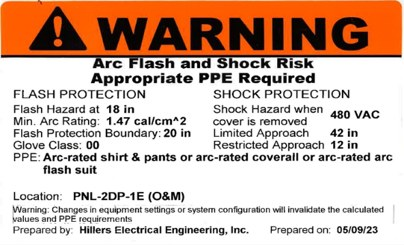
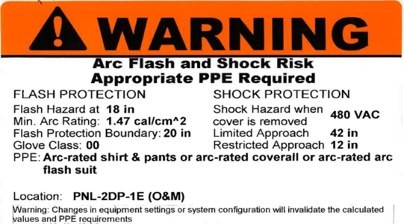
Thein's review, 2026-11-10: bigger brand, no Projects page, his photos
- Header: logo 128px with the firm name beside it at 1.45rem; 84px with
  the name on tablets, logo alone under 480px.
- Projects page removed from nav, sitemap, 404 and README; sheets now
  E-1..E-5 of 5. projects.html is a noindex stub to Home.
- His full-resolution photos replace the pixelated ones: MCC lineup on
  About, vertical pump motor on Services, CAT standby generator and lift
  station panels on Home and Market Focus. Recent Study on Home is now
  the WTP No. 2 arc flash study (September 2026) from his cover PDF.
- Arc flash label: "Prepared by" line cropped off, shown whole
  (object-fit: contain), caption no longer credits HEE.
- Contact: Paul and Thein use the unedited portraits from his guide;
  rows are Paul + Careers, Mark + Thein, Shawn + Jacki.

diff --git a/index.html b/index.html
@@ -28,7 +28,7 @@
 <a class="skip" href="#main">Skip to content</a>
 <header class="site-head band"><div class="wrap">
   <a class="brand" href="index.html"><img src="img/logo.png" alt="" width="451" height="216"><span>Hillers Electrical Engineering, Inc.</span></a>
-  <nav class="site-nav" aria-label="Main"><a class="nav-cta" href="contact.html">Contact</a><details class="menu"><summary aria-label="Menu"><span class="bars" aria-hidden="true"><i></i><i></i><i></i></span></summary></details><ul><li><a href="index.html" aria-current="page">Home</a></li><li><a href="about.html">About</a></li><li><a href="services.html">Services</a></li><li><a href="market-focus.html">Market Focus</a></li><li><a href="projects.html">Projects</a></li></ul></nav>
+  <nav class="site-nav" aria-label="Main"><a class="nav-cta" href="contact.html">Contact</a><details class="menu"><summary aria-label="Menu"><span class="bars" aria-hidden="true"><i></i><i></i><i></i></span></summary></details><ul><li><a href="index.html" aria-current="page">Home</a></li><li><a href="about.html">About</a></li><li><a href="services.html">Services</a></li><li><a href="market-focus.html">Market Focus</a></li></ul></nav>
 </div></header>
 <main id="main">
 <section class="hero band"><div class="zones" aria-hidden="true"><span>1</span><span>2</span><span>3</span><span>4</span><span>5</span><span>6</span><span>7</span><span>8</span></div><div class="wrap">
@@ -92,9 +92,9 @@
 
 <section class="band tinted"><div class="wrap">
   <div class="plates-3">
-    <a class="photo-card" href="projects.html"><div class="zoom"><img src="img/plant-aerial.jpg" alt="Aerial view of a treatment plant with clarifiers and storage tanks" width="658" height="307"></div><span>Treatment plant, aerial</span></a>
-    <a class="photo-card" href="projects.html"><div class="zoom"><img src="img/switchgear.jpg" alt="Lineup of electrical switchgear and motor control sections in an indoor electrical room" width="413" height="309"></div><span>Switchgear and motor control lineup</span></a>
-    <a class="photo-card" href="projects.html"><div class="zoom"><img src="img/generator.jpg" alt="Large diesel standby generator installed indoors" width="555" height="312"></div><span>Standby generator</span></a>
+    <figure class="plate"><div class="zoom"><img src="img/plant-aerial.jpg" alt="Aerial view of a treatment plant with clarifiers and storage tanks" width="658" height="307"></div><figcaption>Treatment plant, aerial</figcaption></figure>
+    <figure class="plate"><div class="zoom"><img src="img/lift-station.jpg" alt="Lift station control panels and conduit on a concrete pad" width="1400" height="788" loading="lazy"></div><figcaption>Lift station control panels</figcaption></figure>
+    <figure class="plate"><div class="zoom"><img src="img/generator.jpg" alt="Large diesel standby generator installed indoors" width="1400" height="788" loading="lazy"></div><figcaption>Standby generator</figcaption></figure>
   </div>
 </div></section>
 
@@ -106,7 +106,7 @@
     </div>
     <nav class="quick" aria-label="Quick links">
       <a href="services.html"><svg class="icon" viewBox="0 0 64 64" aria-hidden="true" focusable="false"><path d="M32 4v8"/><rect x="28" y="12" width="8" height="8"/><path d="M32 20v3"/><circle cx="32" cy="29" r="6"/><circle cx="32" cy="37" r="6"/><path d="M32 43v5M14 48h36M14 48v9M32 48v9M50 48v9"/></svg><span>Services</span></a>
-      <a href="projects.html"><svg class="icon" viewBox="0 0 64 64" aria-hidden="true" focusable="false"><circle cx="19" cy="19" r="13"/><circle cx="19" cy="19" r="3"/><path d="M6 19h10M22 19h10M19 6v10M19 22v10"/><circle cx="46" cy="46" r="11"/><circle cx="46" cy="46" r="3"/><rect x="40" y="8" width="18" height="22"/><path d="M40 15h18M40 22h18"/><rect x="6" y="42" width="24" height="16"/><path d="M14 42v16M22 42v16"/><path d="M32 19h8M30 50h5"/></svg><span>Projects</span></a>
+      <a href="market-focus.html"><svg class="icon" viewBox="0 0 64 64" aria-hidden="true" focusable="false"><circle cx="19" cy="19" r="13"/><circle cx="19" cy="19" r="3"/><path d="M6 19h10M22 19h10M19 6v10M19 22v10"/><circle cx="46" cy="46" r="11"/><circle cx="46" cy="46" r="3"/><rect x="40" y="8" width="18" height="22"/><path d="M40 15h18M40 22h18"/><rect x="6" y="42" width="24" height="16"/><path d="M14 42v16M22 42v16"/><path d="M32 19h8M30 50h5"/></svg><span>Market Focus</span></a>
       <a href="about.html"><svg class="icon" viewBox="0 0 64 64" aria-hidden="true" focusable="false"><circle cx="24" cy="20" r="9"/><path d="M8 54c0-11 7-18 16-18s16 7 16 18"/><circle cx="47" cy="24" r="7"/><path d="M43 37c8-1 14 6 14 17"/></svg><span>About</span></a>
       <a href="contact.html"><svg class="icon" viewBox="0 0 64 64" aria-hidden="true" focusable="false"><rect x="7" y="14" width="50" height="36"/><path d="M7 16l25 19 25-19"/></svg><span>Contact</span></a>
     </nav>
@@ -119,20 +119,20 @@
 </div></section>
 
 <section class="band tinted"><div class="wrap">
-  <div class="section-head"><h2>Recent Study</h2><a class="more" href="projects.html">All projects</a></div>
-  <a class="feature" href="projects.html#croc">
-    <div class="zoom"><img src="img/croc-study.jpg" alt="Cover of the Short Circuit, Device Coordination and Arc Flash Study for the Central Regional Operations Center, Palm Beach County" width="288" height="397"></div>
+  <div class="section-head"><h2>Recent Study</h2></div>
+  <div class="feature">
+    <div class="zoom"><img src="img/wtp2-study.jpg" alt="Cover of the Short Circuit, Device Coordination and Arc Flash Study for Water Treatment Plant No. 2, Palm Beach County Water Utilities Department" width="600" height="800" loading="lazy"></div>
     <div class="feature-body">
-      <p class="label">Final study, April 2026</p>
+      <p class="label">Final study, September 2026</p>
       <h3>Short Circuit, Device Coordination and Arc Flash Study</h3>
       <dl>
-        <dt>Facility</dt><dd>Central Regional Operations Center (CROC)</dd>
-        <dt>Client</dt><dd>Palm Beach County</dd>
+        <dt>Facility</dt><dd>Water Treatment Plant No. 2</dd>
+        <dt>Client</dt><dd>Palm Beach County Water Utilities Department</dd>
+        <dt>Contract</dt><dd>WUD-25-002 (CSA 23-047)</dd>
       </dl>
-      <svg class="arrow" viewBox="0 0 44 16" aria-hidden="true" focusable="false"><path d="M0 8h42M35 1l7 7-7 7"/></svg>
     </div>
-  </a>
-</div></section>
+  </div>
+</section>
 
 <section class="band tinted-blue"><div class="wrap">
   <div class="section-head"><h2>Leadership</h2><a class="more" href="contact.html">Phone and email</a></div>
@@ -148,7 +148,7 @@
     <div><span class="label">Firm</span><strong>Hillers Electrical Engineering, Inc.</strong><span>In business since 1994</span></div>
     <div><span class="label">Office</span><span>23257 State Road 7, Suite 100<br>Boca Raton, FL 33428</span><a href="tel:+15614519165">(561) 451-9165</a></div>
     <div><span class="label">Staff and client access</span><a href="http://ftp.hillersee.com">FTP site</a><a href="https://outlook.office.com">Email remote</a></div>
-    <div><span class="label">Sheet</span><span class="sheet">E-1</span><span>of 6</span></div>
+    <div><span class="label">Sheet</span><span class="sheet">E-1</span><span>of 5</span></div>
   </div>
   <p class="fine">&copy; 2026 Hillers Electrical Engineering, Inc.</p>
 </div></footer>

diff --git a/projects.html b/projects.html
@@ -1,75 +1,4 @@
 <!doctype html>
-<html lang="en">
-<head>
-<meta charset="utf-8">
-<meta name="viewport" content="width=device-width, initial-scale=1, viewport-fit=cover">
-<title>Projects | Hillers Electrical Engineering</title>
-<meta name="description" content="Recent electrical, instrumentation and control work by Hillers Electrical Engineering for Florida utilities, including the CROC arc flash study for Palm Beach County.">
-<link rel="canonical" href="https://www.hillersee.com/projects.html">
-<link rel="icon" href="favicon.svg" type="image/svg+xml">
-<meta name="theme-color" content="#36363c">
-<meta property="og:type" content="website">
-<meta property="og:site_name" content="Hillers Electrical Engineering, Inc.">
-<meta property="og:title" content="Projects | Hillers Electrical Engineering">
-<meta property="og:description" content="Recent electrical, instrumentation and control work by Hillers Electrical Engineering for Florida utilities, including the CROC arc flash study for Palm Beach County.">
-<meta property="og:url" content="https://www.hillersee.com/projects.html">
-<meta property="og:image" content="https://www.hillersee.com/img/og.jpg">
-<meta property="og:image:width" content="1200">
-<meta property="og:image:height" content="630">
-<meta name="twitter:card" content="summary_large_image">
-<link rel="preload" href="fonts/barlow-600.woff2" as="font" type="font/woff2" crossorigin>
-<link rel="preload" href="fonts/ibm-plex-sans-400.woff2" as="font" type="font/woff2" crossorigin>
-<link rel="stylesheet" href="css/site.css">
-</head>
-<body>
-<a class="skip" href="#main">Skip to content</a>
-<header class="site-head band"><div class="wrap">
-  <a class="brand" href="index.html"><img src="img/logo.png" alt="" width="451" height="216"><span>Hillers Electrical Engineering, Inc.</span></a>
-  <nav class="site-nav" aria-label="Main"><a class="nav-cta" href="contact.html">Contact</a><details class="menu"><summary aria-label="Menu"><span class="bars" aria-hidden="true"><i></i><i></i><i></i></span></summary></details><ul><li><a href="index.html">Home</a></li><li><a href="about.html">About</a></li><li><a href="services.html">Services</a></li><li><a href="market-focus.html">Market Focus</a></li><li><a href="projects.html" aria-current="page">Projects</a></li></ul></nav>
-</div></header>
-<main id="main">
-<section class="page-head band"><div class="wrap stack">
-  <p class="label">Sheet E-5 / Projects</p>
-  <h1>Multiple Successful Projects Completed.</h1>
-  <p class="lede">Recent electrical, instrumentation and control work for Florida utilities and water agencies. The agencies we serve are listed under <a href="market-focus.html">Market Focus</a>.</p>
-</div></section>
-<section class="band ruled" id="croc"><div class="wrap stack">
-  <p class="label">Recent study, April 2026</p>
-  <div class="entry">
-    <img src="img/croc-study.jpg" alt="Cover of the Short Circuit, Device Coordination and Arc Flash Study for the Central Regional Operations Center, Palm Beach County" width="288" height="397">
-    <div class="stack">
-      <h2>Short Circuit, Device Coordination and Arc Flash Study</h2>
-      <dl>
-        <dt>Facility</dt><dd>Central Regional Operations Center (CROC)</dd>
-        <dt>Client</dt><dd>Palm Beach County</dd>
-        <dt>Status</dt><dd>Final study</dd>
-      </dl>
-    </div>
-  </div>
-</div></section>
-<section class="band tinted"><div class="wrap">
-  <div class="gallery">
-    <figure class="plate"><div class="zoom"><img src="img/plant-aerial.jpg" alt="Aerial view of a treatment plant with clarifiers and storage tanks" width="658" height="307"></div><figcaption>Treatment plant, aerial</figcaption></figure>
-    <figure class="plate"><div class="zoom"><img src="img/generator.jpg" alt="Large diesel standby generator installed indoors" width="555" height="312"></div><figcaption>Standby generator</figcaption></figure>
-    <figure class="plate"><div class="zoom"><img src="img/switchgear.jpg" alt="Lineup of electrical switchgear and motor control sections" width="413" height="309"></div><figcaption>Switchgear and motor control lineup</figcaption></figure>
-    <figure class="plate"><div class="zoom"><img src="img/pump-motor.jpg" alt="Vertical pump motor on a steel base with process piping behind it" width="341" height="393"></div><figcaption>Vertical pump motor</figcaption></figure>
-    <figure class="plate"><div class="zoom"><img src="img/electrical-room.jpg" alt="Electrical equipment in a plant with yellow safety railing and conduit" width="296" height="395"></div><figcaption>Plant electrical equipment</figcaption></figure>
-    <figure class="plate"><div class="zoom"><img src="img/arc-flash-label.jpg" alt="Arc flash and shock risk warning label prepared by Hillers Electrical Engineering" width="404" height="245"></div><figcaption>Arc flash label prepared by HEE</figcaption></figure>
-  </div>
-</div></section>
-<section class="cta band"><div class="wrap">
-  <h2>Powering Your Next Municipal Project</h2>
-  <div class="cta-actions"><a class="cta-phone" href="tel:+15614519165">(561) 451-9165</a><a class="btn" href="contact.html">Email a principal</a></div>
-</div></section>
-</main>
-<footer class="title-block band"><div class="wrap">
-  <div class="tb">
-    <div><span class="label">Firm</span><strong>Hillers Electrical Engineering, Inc.</strong><span>In business since 1994</span></div>
-    <div><span class="label">Office</span><span>23257 State Road 7, Suite 100<br>Boca Raton, FL 33428</span><a href="tel:+15614519165">(561) 451-9165</a></div>
-    <div><span class="label">Staff and client access</span><a href="http://ftp.hillersee.com">FTP site</a><a href="https://outlook.office.com">Email remote</a></div>
-    <div><span class="label">Sheet</span><span class="sheet">E-5</span><span>of 6</span></div>
-  </div>
-  <p class="fine">&copy; 2026 Hillers Electrical Engineering, Inc.</p>
-</div></footer>
-</body>
-</html>
+<html lang="en"><head><meta charset="utf-8"><title>Hillers Electrical Engineering</title>
+<meta http-equiv="refresh" content="0; url=index.html"><link rel="canonical" href="https://www.hillersee.com/index.html"><meta name="robots" content="noindex">
+</head><body><p>This page has moved to <a href="index.html">https://www.hillersee.com/index.html</a>.</p></body></html>

diff --git a/contact.html b/contact.html
@@ -25,22 +25,26 @@
 <a class="skip" href="#main">Skip to content</a>
 <header class="site-head band"><div class="wrap">
   <a class="brand" href="index.html"><img src="img/logo.png" alt="" width="451" height="216"><span>Hillers Electrical Engineering, Inc.</span></a>
-  <nav class="site-nav" aria-label="Main"><a class="nav-cta" href="contact.html" aria-current="page">Contact</a><details class="menu"><summary aria-label="Menu"><span class="bars" aria-hidden="true"><i></i><i></i><i></i></span></summary></details><ul><li><a href="index.html">Home</a></li><li><a href="about.html">About</a></li><li><a href="services.html">Services</a></li><li><a href="market-focus.html">Market Focus</a></li><li><a href="projects.html">Projects</a></li></ul></nav>
+  <nav class="site-nav" aria-label="Main"><a class="nav-cta" href="contact.html" aria-current="page">Contact</a><details class="menu"><summary aria-label="Menu"><span class="bars" aria-hidden="true"><i></i><i></i><i></i></span></summary></details><ul><li><a href="index.html">Home</a></li><li><a href="about.html">About</a></li><li><a href="services.html">Services</a></li><li><a href="market-focus.html">Market Focus</a></li></ul></nav>
 </div></header>
 <main id="main">
 <section class="page-head band"><div class="wrap stack">
-  <p class="label">Sheet E-6 / Contact</p>
+  <p class="label">Sheet E-5 / Contact</p>
   <h1>Talk to the People Doing the Work.</h1>
   <p class="lede">Call the office at <a href="tel:+15614519165">(561) 451-9165</a>, or use a direct extension or email below.</p>
 </div></section>
 <section class="band"><div class="wrap">
   <ul class="people"><li class="person"><img src="img/paul-hillers.jpg" alt="Portrait of Paul Hillers, P.E." width="120" height="120">
-    <div><h2>Paul Hillers, P.E.</h2><p class="role">President</p><p class="lines"><a href="mailto:phillers@hillersee.com">phillers@hillersee.com</a><a href="tel:+15614519165,221">(561) 451-9165, ext. 221</a></p></div></li><li class="person"><img src="img/mark-luther.jpg" alt="Portrait of Mark E. Luther, P.E." width="120" height="120">
-    <div><h2>Mark E. Luther, P.E.</h2><p class="role">Senior Vice President</p><p class="lines"><a href="mailto:mluther@hillersee.com">mluther@hillersee.com</a><a href="tel:+15614519165,229">(561) 451-9165, ext. 229</a></p></div></li><li class="person"><img src="img/thein-win.jpg" alt="Portrait of Thein Win, P.E., LEED AP" width="120" height="120">
-    <div><h2>Thein Win, P.E., LEED AP</h2><p class="role">Senior Vice President</p><p class="lines"><a href="mailto:twin@hillersee.com">twin@hillersee.com</a><a href="tel:+15614519165,225">(561) 451-9165, ext. 225</a></p></div></li><li class="person"><img src="img/shawn-hillers.jpg" alt="Portrait of Shawn Hillers, P.E." width="120" height="120">
-    <div><h2>Shawn Hillers, P.E.</h2><p class="role">Vice President</p><p class="lines"><a href="mailto:shillers@hillersee.com">shillers@hillersee.com</a><a href="tel:+15614519165,243">(561) 451-9165, ext. 243</a></p></div></li><li class="person"><img src="img/jacki-yasin.jpg" alt="Portrait of Jacki Yasin" width="120" height="120">
-    <div><h2>Jacki Yasin</h2><p class="role">Administrative Manager</p><p class="lines"><a href="mailto:jacki.yasin@hillersee.com">jacki.yasin@hillersee.com</a><a href="tel:+15614519165,233">(561) 451-9165, ext. 233</a></p></div></li>
+    <div><h2>Paul Hillers, P.E.</h2><p class="role">President</p><p class="lines"><a href="mailto:phillers@hillersee.com">phillers@hillersee.com</a><a href="tel:+15614519165,221">(561) 451-9165, ext. 221</a></p></div></li>
     <li class="person person-note"><div><h2>Careers &amp; Internships</h2><p class="role">For careers and summer internship opportunities at Hillers Electrical Engineering, contact Jacki Yasin.</p><p class="lines"><a href="mailto:jacki.yasin@hillersee.com">jacki.yasin@hillersee.com</a></p></div></li>
+    <li class="person"><img src="img/mark-luther.jpg" alt="Portrait of Mark E. Luther, P.E." width="120" height="120">
+    <div><h2>Mark E. Luther, P.E.</h2><p class="role">Senior Vice President</p><p class="lines"><a href="mailto:mluther@hillersee.com">mluther@hillersee.com</a><a href="tel:+15614519165,229">(561) 451-9165, ext. 229</a></p></div></li>
+    <li class="person"><img src="img/thein-win.jpg" alt="Portrait of Thein Win, P.E., LEED AP" width="120" height="120">
+    <div><h2>Thein Win, P.E., LEED AP</h2><p class="role">Senior Vice President</p><p class="lines"><a href="mailto:twin@hillersee.com">twin@hillersee.com</a><a href="tel:+15614519165,225">(561) 451-9165, ext. 225</a></p></div></li>
+    <li class="person"><img src="img/shawn-hillers.jpg" alt="Portrait of Shawn Hillers, P.E." width="120" height="120">
+    <div><h2>Shawn Hillers, P.E.</h2><p class="role">Vice President</p><p class="lines"><a href="mailto:shillers@hillersee.com">shillers@hillersee.com</a><a href="tel:+15614519165,243">(561) 451-9165, ext. 243</a></p></div></li>
+    <li class="person"><img src="img/jacki-yasin.jpg" alt="Portrait of Jacki Yasin" width="120" height="120">
+    <div><h2>Jacki Yasin</h2><p class="role">Administrative Manager</p><p class="lines"><a href="mailto:jacki.yasin@hillersee.com">jacki.yasin@hillersee.com</a><a href="tel:+15614519165,233">(561) 451-9165, ext. 233</a></p></div></li>
   </ul>
 </div></section>
 <section class="band tinted-blue" id="location"><div class="wrap stack">
@@ -55,7 +59,7 @@
     <div><span class="label">Firm</span><strong>Hillers Electrical Engineering, Inc.</strong><span>In business since 1994</span></div>
     <div><span class="label">Office</span><span>23257 State Road 7, Suite 100<br>Boca Raton, FL 33428</span><a href="tel:+15614519165">(561) 451-9165</a></div>
     <div><span class="label">Staff and client access</span><a href="http://ftp.hillersee.com">FTP site</a><a href="https://outlook.office.com">Email remote</a></div>
-    <div><span class="label">Sheet</span><span class="sheet">E-6</span><span>of 6</span></div>
+    <div><span class="label">Sheet</span><span class="sheet">E-5</span><span>of 5</span></div>
   </div>
   <p class="fine">&copy; 2026 Hillers Electrical Engineering, Inc.</p>
 </div></footer>

diff --git a/market-focus.html b/market-focus.html
@@ -25,7 +25,7 @@
 <a class="skip" href="#main">Skip to content</a>
 <header class="site-head band"><div class="wrap">
   <a class="brand" href="index.html"><img src="img/logo.png" alt="" width="451" height="216"><span>Hillers Electrical Engineering, Inc.</span></a>
-  <nav class="site-nav" aria-label="Main"><a class="nav-cta" href="contact.html">Contact</a><details class="menu"><summary aria-label="Menu"><span class="bars" aria-hidden="true"><i></i><i></i><i></i></span></summary></details><ul><li><a href="index.html">Home</a></li><li><a href="about.html">About</a></li><li><a href="services.html">Services</a></li><li><a href="market-focus.html" aria-current="page">Market Focus</a></li><li><a href="projects.html">Projects</a></li></ul></nav>
+  <nav class="site-nav" aria-label="Main"><a class="nav-cta" href="contact.html">Contact</a><details class="menu"><summary aria-label="Menu"><span class="bars" aria-hidden="true"><i></i><i></i><i></i></span></summary></details><ul><li><a href="index.html">Home</a></li><li><a href="about.html">About</a></li><li><a href="services.html">Services</a></li><li><a href="market-focus.html" aria-current="page">Market Focus</a></li></ul></nav>
 </div></header>
 <main id="main">
 <section class="page-head band"><div class="wrap stack">
@@ -35,6 +35,12 @@
 </div></section>
 <section class="band ruled"><div class="wrap stack">
   <ul class="feeders"><li>Palm Beach County Water Utilities Department</li><li>Broward County Water and Wastewater Services</li><li>City of Orlando Utilities</li><li>City of Boca Raton Utilities</li><li>South Florida Water Management District</li><li>South Central Water Treatment and Disposal Board</li><li>City of West Palm Beach Utilities</li><li>City of Sunrise Utilities</li><li>City of Hollywood Utilities</li><li>City of Pembroke Pines Utilities</li><li>City of Pompano Beach Utilities</li><li>Village of Wellington Utilities</li><li>East Central Regional Reclamation Facility Board</li><li>City of Fort Lauderdale</li><li>City of Davie</li><li>City of Daytona Beach</li><li>Lake Worth</li><li>Seacoast Utility Authority (SUA)</li><li>Orange County Utilities (OCU)</li><li>Florida Keys Aqueduct Authority (FKAA)</li></ul>
+</div></section>
+<section class="band tinted"><div class="wrap">
+  <div class="plates-2">
+    <figure class="plate"><div class="zoom"><img src="img/lift-station.jpg" alt="Lift station control panels and conduit on a concrete pad" width="1400" height="788" loading="lazy"></div><figcaption>Lift station control panels</figcaption></figure>
+    <figure class="plate"><div class="zoom"><img src="img/generator.jpg" alt="Large diesel standby generator installed indoors" width="1400" height="788" loading="lazy"></div><figcaption>Standby generator</figcaption></figure>
+  </div>
 </div></section>
 <section class="cta band"><div class="wrap">
   <h2>Powering Your Next Municipal Project</h2>
@@ -46,7 +52,7 @@
     <div><span class="label">Firm</span><strong>Hillers Electrical Engineering, Inc.</strong><span>In business since 1994</span></div>
     <div><span class="label">Office</span><span>23257 State Road 7, Suite 100<br>Boca Raton, FL 33428</span><a href="tel:+15614519165">(561) 451-9165</a></div>
     <div><span class="label">Staff and client access</span><a href="http://ftp.hillersee.com">FTP site</a><a href="https://outlook.office.com">Email remote</a></div>
-    <div><span class="label">Sheet</span><span class="sheet">E-4</span><span>of 6</span></div>
+    <div><span class="label">Sheet</span><span class="sheet">E-4</span><span>of 5</span></div>
   </div>
   <p class="fine">&copy; 2026 Hillers Electrical Engineering, Inc.</p>
 </div></footer>

diff --git a/services.html b/services.html
@@ -25,7 +25,7 @@
 <a class="skip" href="#main">Skip to content</a>
 <header class="site-head band"><div class="wrap">
   <a class="brand" href="index.html"><img src="img/logo.png" alt="" width="451" height="216"><span>Hillers Electrical Engineering, Inc.</span></a>
-  <nav class="site-nav" aria-label="Main"><a class="nav-cta" href="contact.html">Contact</a><details class="menu"><summary aria-label="Menu"><span class="bars" aria-hidden="true"><i></i><i></i><i></i></span></summary></details><ul><li><a href="index.html">Home</a></li><li><a href="about.html">About</a></li><li><a href="services.html" aria-current="page">Services</a></li><li><a href="market-focus.html">Market Focus</a></li><li><a href="projects.html">Projects</a></li></ul></nav>
+  <nav class="site-nav" aria-label="Main"><a class="nav-cta" href="contact.html">Contact</a><details class="menu"><summary aria-label="Menu"><span class="bars" aria-hidden="true"><i></i><i></i><i></i></span></summary></details><ul><li><a href="index.html">Home</a></li><li><a href="about.html">About</a></li><li><a href="services.html" aria-current="page">Services</a></li><li><a href="market-focus.html">Market Focus</a></li></ul></nav>
 </div></header>
 <main id="main">
 <section class="page-head band"><div class="wrap stack">
@@ -38,9 +38,9 @@
 </div></section>
 <section class="band tinted"><div class="wrap">
   <div class="plates-3">
-    <figure class="plate"><div class="zoom"><img src="img/pump-motor.jpg" alt="Vertical pump motor on a steel base with process piping behind it" width="341" height="393"></div><figcaption>Vertical pump motor</figcaption></figure>
+    <figure class="plate"><div class="zoom"><img src="img/pump-motor.jpg" alt="Vertical pump motor at a membrane treatment unit, with process piping behind it" width="900" height="1200"></div><figcaption>Vertical pump motor</figcaption></figure>
     <figure class="plate"><div class="zoom"><img src="img/switchgear.jpg" alt="Lineup of electrical switchgear and motor control sections" width="413" height="309"></div><figcaption>Switchgear and motor control lineup</figcaption></figure>
-    <figure class="plate"><div class="zoom"><img src="img/arc-flash-label.jpg" alt="Arc flash and shock risk warning label prepared by Hillers Electrical Engineering" width="404" height="245"></div><figcaption>Arc flash label prepared by HEE</figcaption></figure>
+    <figure class="plate fit"><div class="zoom"><img src="img/arc-flash-label.jpg" alt="Arc flash and shock risk warning label from an arc flash study" width="404" height="224"></div><figcaption>Arc flash label from a study</figcaption></figure>
   </div>
 </div></section>
 <section class="cta band"><div class="wrap">
@@ -53,7 +53,7 @@
     <div><span class="label">Firm</span><strong>Hillers Electrical Engineering, Inc.</strong><span>In business since 1994</span></div>
     <div><span class="label">Office</span><span>23257 State Road 7, Suite 100<br>Boca Raton, FL 33428</span><a href="tel:+15614519165">(561) 451-9165</a></div>
     <div><span class="label">Staff and client access</span><a href="http://ftp.hillersee.com">FTP site</a><a href="https://outlook.office.com">Email remote</a></div>
-    <div><span class="label">Sheet</span><span class="sheet">E-3</span><span>of 6</span></div>
+    <div><span class="label">Sheet</span><span class="sheet">E-3</span><span>of 5</span></div>
   </div>
   <p class="fine">&copy; 2026 Hillers Electrical Engineering, Inc.</p>
 </div></footer>

diff --git a/about.html b/about.html
@@ -25,7 +25,7 @@
 <a class="skip" href="#main">Skip to content</a>
 <header class="site-head band"><div class="wrap">
   <a class="brand" href="index.html"><img src="img/logo.png" alt="" width="451" height="216"><span>Hillers Electrical Engineering, Inc.</span></a>
-  <nav class="site-nav" aria-label="Main"><a class="nav-cta" href="contact.html">Contact</a><details class="menu"><summary aria-label="Menu"><span class="bars" aria-hidden="true"><i></i><i></i><i></i></span></summary></details><ul><li><a href="index.html">Home</a></li><li><a href="about.html" aria-current="page">About</a></li><li><a href="services.html">Services</a></li><li><a href="market-focus.html">Market Focus</a></li><li><a href="projects.html">Projects</a></li></ul></nav>
+  <nav class="site-nav" aria-label="Main"><a class="nav-cta" href="contact.html">Contact</a><details class="menu"><summary aria-label="Menu"><span class="bars" aria-hidden="true"><i></i><i></i><i></i></span></summary></details><ul><li><a href="index.html">Home</a></li><li><a href="about.html" aria-current="page">About</a></li><li><a href="services.html">Services</a></li><li><a href="market-focus.html">Market Focus</a></li></ul></nav>
 </div></header>
 <main id="main">
 <section class="page-head band"><div class="wrap stack">
@@ -41,7 +41,7 @@
     <p>We deliver projects on time and on budget. As a small firm, we offer personal involvement from key company principals, who take an active role in making sure all work meets your expectations and our own standards of quality.</p>
     <p>In consulting, responsiveness is the key to a long-term relationship. We stay accessible and responsive to our clients, and our relationships with many municipalities and environmental consulting firms go back to 1994.</p>
   </div>
-  <figure class="plate"><div class="zoom"><img src="img/electrical-room.jpg" alt="Electrical equipment in a plant with yellow safety railing and conduit" width="296" height="395"></div><figcaption>Plant electrical equipment</figcaption></figure>
+  <figure class="plate"><div class="zoom"><img src="img/electrical-room.jpg" alt="Motor control center and control panels in a plant, behind yellow safety railing" width="900" height="1200"></div><figcaption>Plant electrical equipment</figcaption></figure>
 </div></section>
 
 <section class="band tinted"><div class="wrap stack">
@@ -68,7 +68,7 @@
     <div><span class="label">Firm</span><strong>Hillers Electrical Engineering, Inc.</strong><span>In business since 1994</span></div>
     <div><span class="label">Office</span><span>23257 State Road 7, Suite 100<br>Boca Raton, FL 33428</span><a href="tel:+15614519165">(561) 451-9165</a></div>
     <div><span class="label">Staff and client access</span><a href="http://ftp.hillersee.com">FTP site</a><a href="https://outlook.office.com">Email remote</a></div>
-    <div><span class="label">Sheet</span><span class="sheet">E-2</span><span>of 6</span></div>
+    <div><span class="label">Sheet</span><span class="sheet">E-2</span><span>of 5</span></div>
   </div>
   <p class="fine">&copy; 2026 Hillers Electrical Engineering, Inc.</p>
 </div></footer>

diff --git a/css/site.css b/css/site.css
@@ -67,10 +67,10 @@ ul { margin: 0; padding: 0; list-style: none; }
 
 /* Header */
 .site-head { position: sticky; top: 0; z-index: 20; background: rgba(255, 255, 255, 0.9); -webkit-backdrop-filter: blur(14px); backdrop-filter: blur(14px); border-bottom: 1px solid var(--rule); }
-.site-head .wrap { display: flex; flex-wrap: wrap; align-items: center; justify-content: space-between; gap: 12px 32px; padding-block: 14px; }
-.brand { display: flex; align-items: center; gap: 14px; text-decoration: none; color: var(--ink); }
-.brand img { width: 76px; }
-.brand span { font: 600 1.05rem/1.2 var(--display); }
+.site-head .wrap { display: flex; flex-wrap: wrap; align-items: center; justify-content: space-between; gap: 12px 32px; padding-block: 12px; }
+.brand { display: flex; align-items: center; gap: 18px; text-decoration: none; color: var(--ink); }
+.brand img { width: 128px; height: auto; }
+.brand span { font: 600 1.45rem/1.15 var(--display); letter-spacing: -0.01em; max-width: 11em; }
 .site-nav { display: flex; align-items: center; gap: 26px; }
 .site-nav ul { display: flex; flex-wrap: wrap; align-items: center; gap: 4px 26px; order: 1; }
 .site-nav a { display: inline-block; padding: 6px 0; font: 500 0.97rem/1.3 var(--display); color: var(--ink); text-decoration: none; border-bottom: 3px solid transparent; transition: border-color .2s ease; }
@@ -92,8 +92,9 @@ ul { margin: 0; padding: 0; list-style: none; }
 @media (max-width: 900px) {
   /* One-row header on phones: the logo carries the name (the text stays for screen readers). */
   .site-head .wrap { flex-wrap: nowrap; gap: 12px; }
-  .brand span { position: absolute; width: 1px; height: 1px; overflow: hidden; clip: rect(0 0 0 0); clip-path: inset(50%); white-space: nowrap; }
-  .brand img { width: 68px; }
+  .brand { gap: 10px; }
+  .brand span { font-size: 0.95rem; max-width: 9em; }
+  .brand img { width: 84px; }
   .site-nav { gap: 10px; }
   .site-nav .nav-cta { order: 1; padding: 6px 16px; font-size: 0.92rem; }
   .site-nav .menu { display: block; order: 2; }
@@ -389,3 +390,14 @@ blockquote p { font: italic 400 clamp(1.3rem, 2.1vw, 1.75rem)/1.45 var(--serif);
 
 /* About: firm profile table */
 .profile th[scope="row"] { width: 28%; font: 500 0.8rem/1.4 var(--mono); letter-spacing: 0.08em; text-transform: uppercase; color: var(--muted); vertical-align: top; }
+
+/* Thein's review, 2026-11-10 */
+.plate.fit img { object-fit: contain; background: var(--white); }
+.plates-2 { display: grid; grid-template-columns: repeat(2, minmax(0, 1fr)); gap: 24px; align-items: start; }
+.plates-2 img { aspect-ratio: 16 / 9; object-fit: cover; }
+.feature .zoom img { aspect-ratio: 3 / 4; object-fit: cover; }
+@media (max-width: 480px) {
+  .brand span { position: absolute; width: 1px; height: 1px; overflow: hidden; clip: rect(0 0 0 0); clip-path: inset(50%); white-space: nowrap; }
+  .brand img { width: 96px; }
+}
+@media (max-width: 620px) { .plates-2 { grid-template-columns: minmax(0, 1fr); } }

diff --git a/404.html b/404.html
@@ -17,7 +17,7 @@
 <a class="skip" href="#main">Skip to content</a>
 <header class="site-head band"><div class="wrap">
   <a class="brand" href="index.html"><img src="/img/logo.png" alt="" width="451" height="216"><span>Hillers Electrical Engineering, Inc.</span></a>
-  <nav class="site-nav" aria-label="Main"><a class="nav-cta" href="/contact.html">Contact</a><details class="menu"><summary aria-label="Menu"><span class="bars" aria-hidden="true"><i></i><i></i><i></i></span></summary></details><ul><li><a href="/index.html">Home</a></li><li><a href="/about.html">About</a></li><li><a href="/services.html">Services</a></li><li><a href="/market-focus.html">Market Focus</a></li><li><a href="/projects.html">Projects</a></li></ul></nav>
+  <nav class="site-nav" aria-label="Main"><a class="nav-cta" href="/contact.html">Contact</a><details class="menu"><summary aria-label="Menu"><span class="bars" aria-hidden="true"><i></i><i></i><i></i></span></summary></details><ul><li><a href="/index.html">Home</a></li><li><a href="/about.html">About</a></li><li><a href="/services.html">Services</a></li><li><a href="/market-focus.html">Market Focus</a></li><li><a href="/market-focus.html">Market Focus</a></li></ul></nav>
 </div></header>
 <main id="main">
 <section class="page-head band"><div class="wrap stack">
@@ -26,7 +26,7 @@
   <p class="lede">The address may have changed when the site was rebuilt. Try one of these.</p>
 </div></section>
 <section class="band"><div class="wrap">
-  <ul class="ticks"><li><a href="/">Home</a></li><li><a href="/about.html">About</a></li><li><a href="/services.html">Services</a></li><li><a href="/market-focus.html">Market Focus</a></li><li><a href="/projects.html">Projects</a></li><li><a href="/contact.html">Contact</a></li></ul>
+  <ul class="ticks"><li><a href="/">Home</a></li><li><a href="/about.html">About</a></li><li><a href="/services.html">Services</a></li><li><a href="/market-focus.html">Market Focus</a></li><li><a href="/market-focus.html">Market Focus</a></li><li><a href="/contact.html">Contact</a></li></ul>
 </div></section>
 </main>
 <footer class="title-block band"><div class="wrap">

diff --git a/README.md b/README.md
@@ -13,8 +13,7 @@ Design and copy by Elizabeth Mendoza (27 Colab), built from the prototype in `27
 | E-2 | `about.html` | About |
 | E-3 | `services.html` | Services (anchors `#power`, `#controls`, `#facilities`, `#project-services`) |
 | E-4 | `market-focus.html` | Market Focus — the 20 utilities and agencies |
-| E-5 | `projects.html` | Projects — CROC study, photo gallery |
-| E-6 | `contact.html` | Contact + Location (`#location`) |
+| E-5 | `contact.html` | Contact + Location (`#location`) |
 
 Also: `404.html`, `robots.txt`, `sitemap.xml`, `favicon.svg`, `img/og.jpg` (link preview), and four stubs for the
 old site's URLs (`index.htm`, `services.htm`, `offices.htm`, `contact.htm`) that forward to the new pages.
